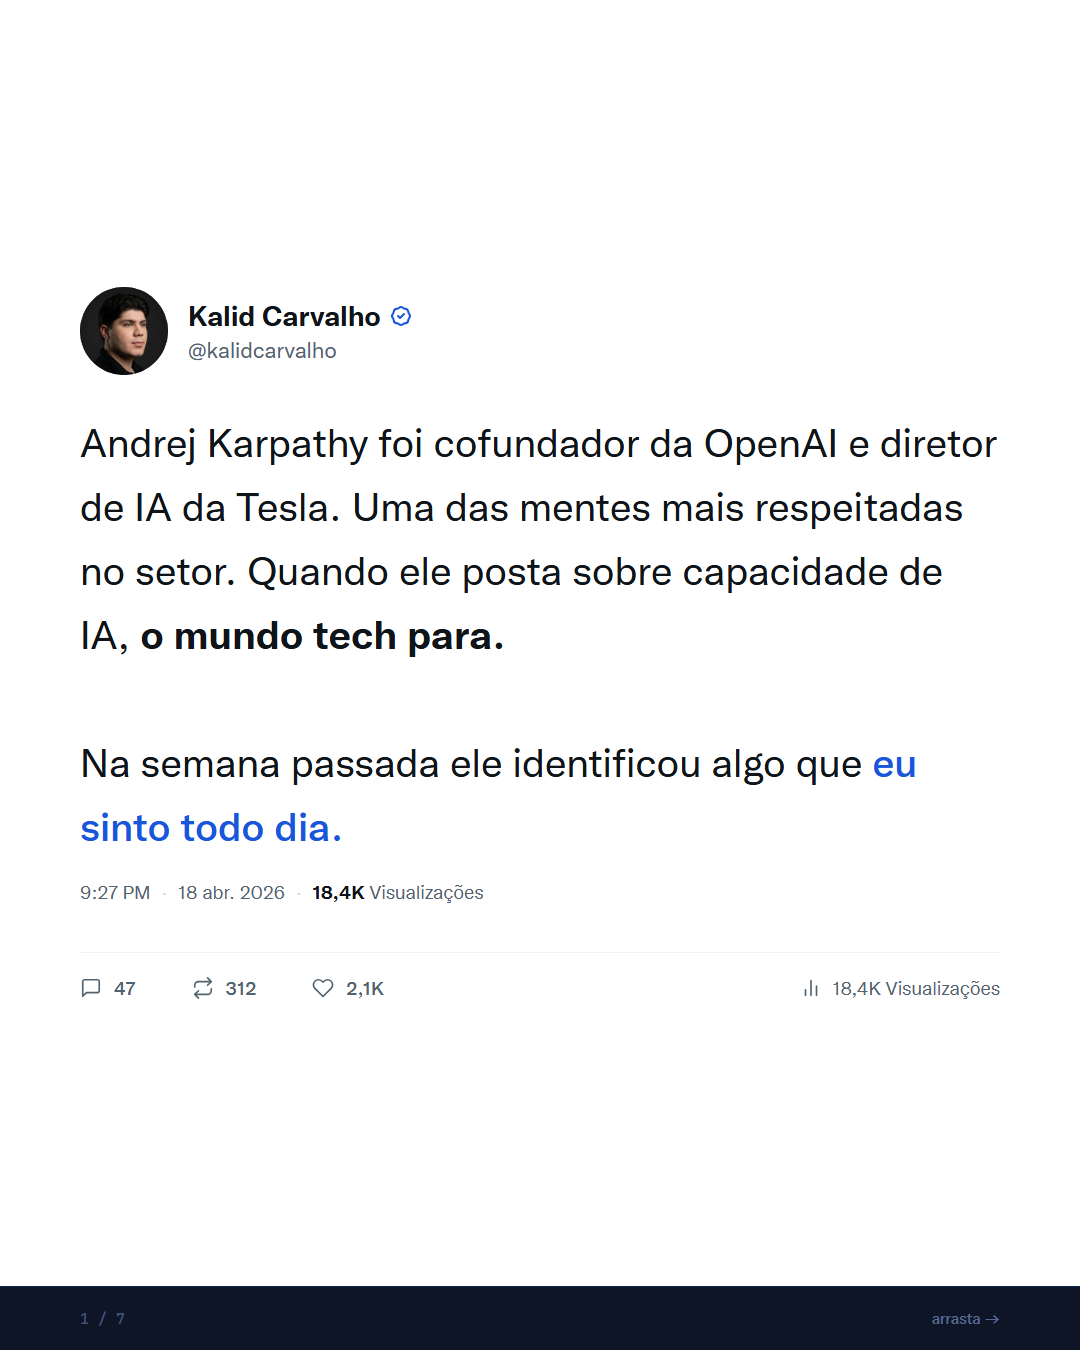
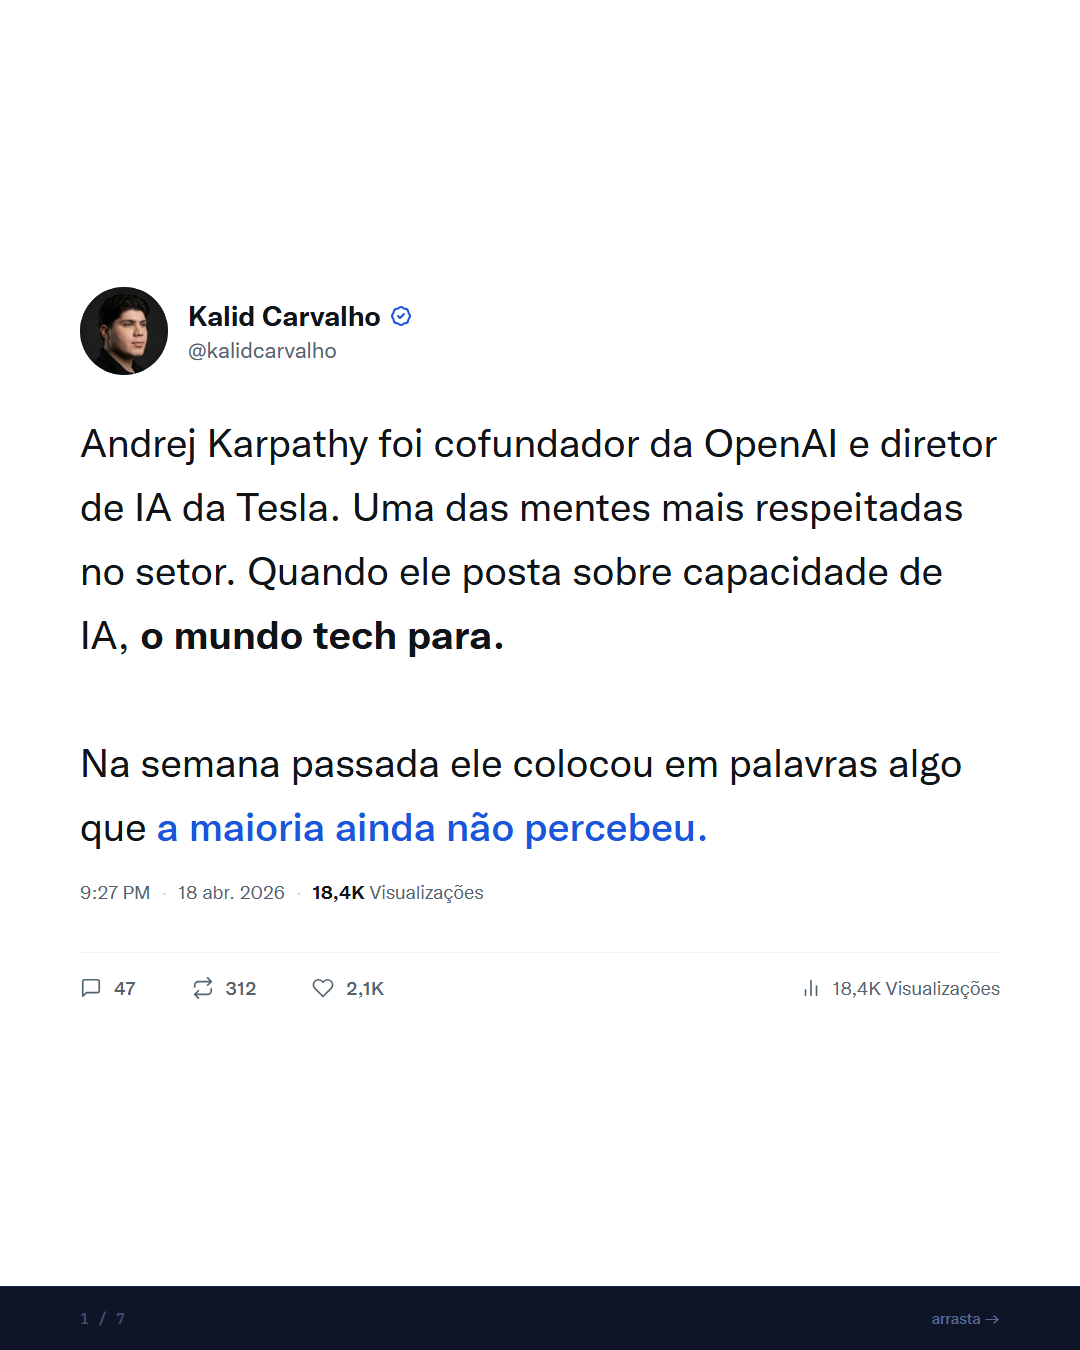
auto-sync: 2026-04-18 09:44

Changed region(s): [[0.0611, 0.56, 0.8861, 0.6222]]

diff --git a/conteudo/kalidcarvalho/carrosseis/2026-04-18/instagram/slide-01.html b/conteudo/kalidcarvalho/carrosseis/2026-04-18/instagram/slide-01.html
@@ -134,7 +134,7 @@ body {
 
     <p class="tweet-text">
       Andrej Karpathy foi cofundador da OpenAI e diretor de IA da Tesla. Uma das mentes mais respeitadas no setor. Quando ele posta sobre capacidade de IA, <strong>o mundo tech para.</strong><br><br>
-      Na semana passada ele identificou algo que <em>eu sinto todo dia.</em>
+      Na semana passada ele colocou em palavras algo que <em>a maioria ainda não percebeu.</em>
     </p>
 
     <div class="tweet-timestamp">
